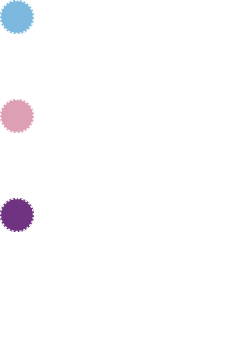
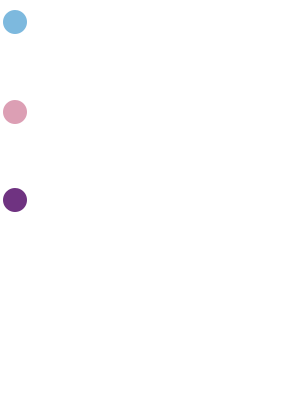
6.3

Changed region(s): [[0.0, 0.4598, 0.1429, 0.6897], [0.0, 0.2299, 0.1429, 0.4023], [0.0, 0.0, 0.1429, 0.1149]]

diff --git a/index.html b/index.html
@@ -34,7 +34,8 @@
         <!-- 第二部分 -->
         <!-- 1. 时间趋势 -->
         <div id="trigFirst" class="trigger"></div>
-        <div class="secifInfo fade" id="sinfo1">            
+        <div class="secifInfo fade" id="sinfo1">   
+            <p class="Ttitle"># 腾讯、阿里巴巴历年直接<span class="title">投资与收购案例</span>情况，其中，<span class="ten">蓝色</span>圆点代表腾讯所投资或收购的公司，<span class="ali">红色</span>圆点代表阿里巴巴投资或收购的公司，将鼠标移到圆点上可查看案例具体时间和领域。</p> 
             <p>自2008年起，腾讯与阿里巴巴两大互联网公司迎来首次投资机遇，并在2013年政策红利背景下加快投资和收购进程，于2014年掀起了投资与收购的热潮。</p>
             <p>此后，两家公司不断在各个领域加大投资力度，深入角逐，抢占行业制高点。</p>
             <div class="blank2"></div>
@@ -56,10 +57,7 @@
                 2013年，移动支付崛起，以电子支付为先导，线下商业逻辑开始正式植入互联网，互联网金融登上历史舞台：
             </p>
             <p>
-                2013年，支付宝手机支付超过27.8亿笔、金额超9000亿元，并推出了余额宝业务；
-            </p>
-            <p>
-                2013年，微信支付上线，线上社交工具开始通过移动支付业务联系线下实际生活场景；
+                2013年，支付宝手机支付超过27.8亿笔、金额超9000亿元，并推出了余额宝业务；微信支付上线，线上社交工具开始通过移动支付业务联系线下实际生活场景；
             </p>
             <p>
                 2013年，互联网行业出现并购热潮，腾讯4.48亿美元注资搜狗，阿里巴巴5.86亿美元入股新浪微博。
@@ -83,7 +81,7 @@
                 </p>
             </div></div>
             <div class="twoinfo right"><img src="img/ali.png" alt=""><div class="tinfo"><p class="name right ali">阿里巴巴</p><p class="cinfo right">
-                阿里巴巴的投资爆发点较腾讯略为提前，并在2016年达到一个高潮。其投资并购数增长率均低于腾讯，但阿里2018年前5月较2017年5月的投资增长率则高于腾讯。
+                阿里巴巴的投资爆发点较腾讯略为提前，并在2016年达到一个高潮。但其投资并购数增长率均低于腾讯。
             </p>
             <p class="cinfo right">
                 投资规模方面，阿里更偏向在看中的领域进行系统性投资，其参与的单家公司的投资规模明显较大，过亿交易占全部投资的52%。
@@ -269,6 +267,7 @@
         <!-- 领域图 -->
         <div id="trigThird" class="trigger"></div>
         <div class="secifInfo" id="sinfo2">
+            <p class="Ttitle"># 腾讯、阿里巴巴<span class="title">投资收购领域分布</span>情况，每一种领域的散点数量对应该领域下两家公司近10年来的投资与收购数量。</p>
             <p>
                 几乎在每个领域，腾讯和阿里巴巴的身影都清晰可见。随着其投资并购行为的不断继续，“互联网+”产业生态矩阵也得到进一步完善。
             </p>
@@ -293,6 +292,9 @@
 
         <div id="trigForth" class="trigger"></div>
         <div class="secifInfo">
+            <p class="Ttitle"># 腾讯、阿里巴巴<span class="title">典型领域投资收购时间分布</span>情况，选取三个领域呈现自2010起，2017年止，两家公司在同一领域下不同的投资力度。
+                三个领域分别为<span class="ten">本地生活</span>、<span class="ten">文化娱乐</span>、<span class="ali">电子商务</span>。
+            </p>
             <p>近5年，阿里和腾讯在多个领域有错峰投资的趋势，主要集中在本地生活、文化娱乐、电子商务三个领域。</p>
             <p>腾讯在文化娱乐领域有长期优势，该领域中腾讯的投资总量大，资本更为强势，在投资集中年份阿里处于弱势地位。</p>
             <p>电子商务是阿里一直擅长的领域，在交易平台的构建和维护方面一直处于领先地位。但阿里近年来和京东达成战略合作，并且着手于微店项目的发展和完善，在投资上有追平阿里之势。</p>
@@ -301,9 +303,11 @@
 
         <!-- 关系图 -->
         <div id="trig6" class="trigger"></div>
-        <div class="blank"></div>
+        <div class="blank2"></div>
         <div class="blank2"></div>
         <div class="secifInfo">
+            <p class="Ttitle"># 腾讯、阿里巴巴<span class="title">投资并购关系网</span>，在两家公司直接投资的基础上，追溯其投资联动关系。
+            </p>
             <p>
                  从投资并购关系网来看，腾讯在投资中形成的投资联动关系在总投资数量中所占比例较大。腾讯注重建立投资链，投资链包括两种：一种是表面上只投资了一家公司，但该公司同时管理着多家小公司，从而实现对这些小公司的间接控制；另一种是和多家实力雄厚的公司形成战略合作关系，投资链所在公司能相互弥补不足，互利共赢。
             </p>
@@ -376,9 +380,11 @@
             <p>从互联网发明伊始，到如今各种互联网巨头争霸于互联网江湖，引领者们始终骄傲于互联网自由、平等、共享、去中心化的理念。只是在这样一条看似日新月异的发展道路上，互联网行业似乎一直未能走出传统资本逻辑的控制。一味地去相信一个绝对契合互联网理念的的市场环境意义不大，市场的监管，法律法规的及时更新才是遏制互联网资本集中趋势的直接有效手段。社会至少应该让用户和经营者期待，互联网会有一个更好的未来。
             </p>
         </div>
-        <div class="simtext">
+        <div class="footer">
+            <hr width="400px" height="20px" align="left">
+
            <p>
-                文字记者：于欣宜 | 刘彧彤
+                文字记者：于欣宜 刘彧彤
             </p>
             <p>
                 数据分析：崔雨晴

diff --git a/js/beeswarm3.js b/js/beeswarm3.js
@@ -865,6 +865,7 @@ var tduration = 1000;
 //type position varable
 var liType = [],
     liType2 = [],
+    liType3 = [],
     tnum = 4, //the number of the type shown on one list 
     Ppadding = Twidth / tnum,
     Ppadding2 = svgHeight /tnum,
@@ -894,6 +895,15 @@ const yAxis = g => g
 const xAxis = g => g
     .attr("transform", `translate(${margin2.left + svgWidth / 2},${margin.top})`)
     .call(d3.axisLeft(yScale).tickSizeOuter(0).tickFormat(d3.format("")));
+
+const simcir2 = data.filter(function (d) { return d.year > 2009 && d.year < 2018 });
+var TyScale = d3.scaleLinear()
+    .domain(d3.extent(simcir2, d => d.year))
+    .range([svgWidth - Twidth - margin.left, width - margin.right]);
+
+const tAxis = g => g
+    // .attr("transform", `translate(${margin2.left}, 0)`)
+    .call(d3.axisTop(TyScale).tickSizeOuter(0).tickFormat(d3.format("")).tickValues([2010, 2011, 2012, 2013, 2014, 2015, 2016, 2017]));
 
 function compute(){   
     //一.compute the simple position 
@@ -955,8 +965,8 @@ function compute(){
         //2.compute every data's (x,y) by pack method
         var circles = d3.packSiblings(sdata
             .map(function(d){ return {data: d, index: d.id, r: radius + Tpadding};}));
-        console.log("c:");
-        console.log(circles);
+        // console.log("c:");
+        // console.log(circles);
 
         //3.translate the meta data
         var ncircles = circles.map(d => cpost(d, i));
@@ -1005,21 +1015,18 @@ function compute(){
         };
         
     };
+
     //四.compute type&time position data 
     liType2 = ["文化娱乐", "电子商务", "本地生活"];
 
-    const simcir2 = data.filter(function (d) { return d.year > 2009 && d.year < 2018 });
-    var TyScale = d3.scaleLinear()
-        .domain(d3.extent(simcir2, d => d.year))
-        .range([svgWidth - Twidth - margin.left, width - margin.right]);
     simcir3 = simcir2.map(d => ({ m: TyScale(d.year), data: d, index: d.id })).sort((a, b) => a.index - b.index);
 
     for(l = 0; l < liType2.length; l++){
         sdata = simcir3.filter(function(d){return d.data.type === liType2[l]});
         stendata = sdata.filter(function (d) { return d.data.inname === "腾讯" });
         salidata = sdata.filter(function (d) { return d.data.inname === "阿里" });
-        simpos(stendata, TTheight / 2 - margin3.top);
-        simpos(salidata, TTheight / 2 - margin3.top);
+        simpos(stendata, TTheight / 2 - margin3.top - padding*2);
+        simpos(salidata, TTheight / 2 - margin3.top - padding * 2);
         const li = (TTheight + margin.top) * l;
         for(s = 0; s < stendata.length; s++){
             const x = stendata[s].m;
@@ -1046,7 +1053,23 @@ function compute(){
             }
         };
     };
-
+    
+    liType3 = [{ "text": "文化娱乐", "row": 1, "col": 1 },
+        { "text": "电子商务", "row": 2, "col": 1 },
+        { "text": "企业服务", "row": 3, "col": 1 },
+        { "text": "汽车交通", "row": 4, "col": 1 },
+        { "text": "本地生活", "row": 1, "col": 2 },
+        { "text": "金   融", "row": 2, "col": 2 },
+        { "text": "游   戏", "row": 3, "col": 2 },
+        { "text": "医疗健康", "row": 4, "col": 2 },
+        { "text": "工具软件", "row": 1, "col": 3 },
+        { "text": "教   育", "row": 2, "col": 3 },
+        { "text": "物   流", "row": 3, "col": 3 },
+        { "text": "社交网络", "row": 4, "col": 3 },
+        { "text": "硬   件", "row": 1, "col": 4 },
+        { "text": "旅   游", "row": 2, "col": 4 },
+        { "text": "房产服务", "row": 3, "col": 4 },
+        { "text": "体育运动", "row": 4, "col": 4 }]
  
     //common function
     function simpos(data, edge) {
@@ -1135,6 +1158,8 @@ function initlayout(){
     Ttext2 = Ttext.append("p");
     Ttext3 = Ttext.append("p"); 
     Ttext4 = Ttext.append("p");
+
+    
 
 };
 function preL(){

diff --git a/js/scroll.js b/js/scroll.js
@@ -59,6 +59,7 @@ $(document).ready(function(){
                 .duration(1000)
                 .delay(1000)
                 .call(xAxis);
+            
             d3.selectAll("text").attr("fill", axistext);
             d3.selectAll("circle")
                 .transition()
@@ -97,12 +98,35 @@ $(document).ready(function(){
             d3.selectAll(".axis").transition()
                 .duration(0)
                 .remove();
+            var Taxis = d3.select("#axis-container")
+
+                .append("g")
+                .attr("class", "axis")
+                .attr("id", "taxis")
+                .attr("opscity", 0)
+
+                .selectAll(".tick")
+                .data(liType3)
+                .enter()
+                .append("text")
+                .attr("transform", (d) => {
+                    if (d.col === 2) {
+                        return "translate(" + [margin2.left * 2 + svgWidth - Twidth + (d.row - 1) * Ppadding, margin2.top + margin.top + d.col * Ppadding2] + ")";
+                    }
+                    else { return "translate(" + [margin2.left * 2 + svgWidth - Twidth + (d.row - 1) * Ppadding, margin2.top + margin.top + d.col * Ppadding2 - Math.floor(d.col / 2) * margin2.top] + ")" }
+                })
+                .text((d) => { return d.text });
+            
             d3.selectAll("circle")
                 .transition()
                 .duration(3000)
                 .style("opacity", 1)
                 .attr("cx", d => d.x3 + svgWidth - Twidth + margin2.left + margin.left)
                 .attr("cy", d => d.y3 + margin2.top * 2);
+            Taxis.transition()
+                .delay(2000)
+                .duration(2000)
+                .attr("opacity", 1);
         }).addTo(controller);
 
     var trig4 = new ScrollMagic.Scene({
@@ -112,6 +136,29 @@ $(document).ready(function(){
             d3.selectAll(".axis").transition()
                 .duration(0)
                 .remove();
+            const yAxis1 = svg.append("g")
+                .transition()
+                .delay(1000)
+                .duration(1000)
+                .attr("class", "axis")
+                .call(tAxis)
+                .attr("transform", `translate(${margin2.left}, ${TTheight / 2 + margin2.top + halfSpace2 * 0.75})`);
+            const yAxis2 = svg.append("g")
+                .transition()
+                .delay(1000)
+                .duration(1000)
+                .attr("class", "axis")
+                .attr("transform", `translate(${margin2.left}, ${TTheight * 1.5 + margin2.top + halfSpace2 * 2})`)
+                .call(tAxis);
+            const yAxis3 = svg.append("g")
+                .transition()
+                .delay(1000)
+                .duration(1000)
+                .attr("class", "axis")
+                .attr("transform", `translate(${margin2.left}, ${TTheight * 2.5 + margin2.top + halfSpace2 * 3.75})`)
+                .call(tAxis);
+            
+
             d3.selectAll("circle")
                 .transition()
                 .duration(3000)
@@ -132,7 +179,7 @@ $(document).ready(function(){
     // var trigRp = new ScrollMagic.Scene({triggerElement:"#trig6", duration:"200%", triggerHook:0.8 })
     //     .setClassToggle("#relate", "show").addIndicators({name: "Rpre"}).addTo(controller);
     var trigR = new ScrollMagic.Scene({
-        triggerElement: "#Rchart", duration: "150%", triggerHook: 0 })    
+        triggerElement: "#Rchart", duration: "200%", triggerHook: 0 })    
         .setPin("#chart #Rchart", { pushFollowers: false })
         .addTo(controller);
     

diff --git a/css/main.css b/css/main.css
@@ -3,17 +3,17 @@ footer, article, #chart{position: absolute; left:0; right:0;}
 /* header, */
 
 #container{
-    background: -webkit-linear-gradient(top,#2293bf 0%,#2293bf 2%,#0a5585 10%,#0f2644 50%,#061836 100%); /* Safari 5.1 to 6.0 */
-    background: -o-linear-gradient(top, #2293bf 0%,#2293bf 2%,#0a5585 10%,#0f2644 50%,#061836 100%); /* Opera 11.1 to 12.0 */
-    background: -moz-linear-gradient(top, #2293bf 0%,#2293bf 2%,#0a5585 10%,#0f2644 50%,#061836 100%); /* Firefox 3.6 to 15 */
-    background: linear-gradient(top,#2293bf 0%,#2293bf 2%,#0a5585 10%,#0f2644 50%,#061836 100%); /* 标准语法 */
+    background: -webkit-linear-gradient(top,#0490d2 0%,#0490d2 2%,#0a5585 10%,#0f2644 50%,#061836 100%); /* Safari 5.1 to 6.0 */
+    background: -o-linear-gradient(top, #0490d2 0%,#0490d2 2%,#0a5585 10%,#0f2644 50%,#061836 100%); /* Opera 11.1 to 12.0 */
+    background: -moz-linear-gradient(top, #0490d2 0%,#0490d2 2%,#0a5585 10%,#0f2644 50%,#061836 100%); /* Firefox 3.6 to 15 */
+    background: linear-gradient(top,#0490d2 0%,#0490d2 2%,#0a5585 10%,#0f2644 50%,#061836 100%); /* 标准语法 */
 }
 /* header{z-index: 20;} */
 #chart{z-index:10;}
 article{z-index:1;}
 
 /* test */
-header{background-image:url(http://7xq8z6.com1.z0.glb.clouddn.com/header.jpg); background-size: cover; background-position: center;}
+header{background-image:url(../img/header2.jpg); background-size: cover; background-position: center;}
 #container{height: 14000px;}
 
 #relate{
@@ -34,8 +34,8 @@ header{background-image:url(http://7xq8z6.com1.z0.glb.clouddn.com/header.jpg); b
 #speCom .speCom .ctext .ctime{font-style: italic; font-size:12px;}
 #speCom .speCom .ctext .cinfo{text-indent: 2em; text-align: justify; line-height: 1.5; font-size: 12px; margin-top: 10px;}
 
-#speCom .ten{background-color: #3391CB;}
-#speCom .ali{background-color: #DC9FB4;}
+#speCom .ten, .Ttitle .ten{background-color: #3391CB;}
+#speCom .ali, .Ttitle .ali{background-color: #DC9FB4;}
 
 #round img{width: 80%; position: relative; left: 10%;}
 
@@ -53,3 +53,5 @@ header{background-image:url(http://7xq8z6.com1.z0.glb.clouddn.com/header.jpg); b
 #speCom .speCom .logo .a06{background-image: url(../img/a06.png)}
 
 #Rchart img{position: absolute; right:3%; z-index:5; top:40%}
+
+#pin video{z-index: 30;}

diff --git a/css/text.css b/css/text.css
@@ -17,14 +17,14 @@ body{font-size:16px; color: #ececec; line-height: 1em; letter-spacing: 2px; text
 .textTrans span{color: #ff5858;}
 
 .secifInfo{width: 35%; margin-left:3%; padding-top: 15%;}
-.secifInfo p{font-size: 13px; }
+.secifInfo p{font-size: 13px; padding-right: 6px;}
 .secifInfo p span{font-weight: 700; letter-spacing: 1px; font-size:14px;}
 
 #round .seciInfo{float: left;}
 #round .img{float: right; width:30%; right: 10%; position: relative;}
 #round .img img{width: 80%; margin-top: 20%;}
 
-#pin{width: 60%; left: 20%; position: relative; padding: 0px 20px; margin-bottom: 10%;}
+#pin{width: 60%; left: 20%; position: relative; padding: 0px 20px; margin-bottom: 5%;}
 #pin h3{text-align: center; letter-spacing: 0.3em; margin-top:5%; font-size: 26px;}
 #pin video{width:100%; position: relative; margin-top:2%; }
 
@@ -32,7 +32,7 @@ body{font-size:16px; color: #ececec; line-height: 1em; letter-spacing: 2px; text
 .simtext{width: 60%;left: 20%;position: relative;margin: 3% 0px; padding: 0px 20px;}
 .simtext p{ margin-top: 20px; text-indent: 2em;}
 
-#twoC{width: 95%; left:2.5%; position: relative; height: 1000px;}
+#twoC{width: 95%; left:2.5%; position: relative; height: 800px; margin-top:200px}
 #twoC .twoinfo{width:35%;}
 #twoC .twoinfo img{width: 40%;}
 #twoC .tinfo{margin:0 5%; width: 45%;}
@@ -46,15 +46,17 @@ body{font-size:16px; color: #ececec; line-height: 1em; letter-spacing: 2px; text
 #twoC .ten{color: #7DB9DE;}
 #twoC .ali{color: #DC9FB4;}
 
-.Stitle{
-    /* color: #a7a5a6; */
+#sinfo1 .ten, #sinfo1 .ali, .Ttitle .ten, .Ttitle .ali{padding: 3px; font-weight: 600}
+
+a{color: #ffa117; text-decoration: none; font-weight: 700; cursor: pointer;}
+
+.secifInfo .Ttitle{margin-bottom: 15%; font-size: 15px;}
+.secifInfo .Ttitle span.title{font-weight: bold; font-size:15px; color: white;}
+
+.footer{
+    width: 90%;
+    left: 10%;
+    position: relative;
+    margin-top: 20%;
     font-size: 14px;
-    line-height: 24px;
-    letter-spacing: 2px;
-    padding: 5px 5px 0px 0px;
-}
-.Smtitle{
-    font-size: 14px;
-    letter-spacing: 2px;
-    line-height: 26px;
-}
+    color: #cecece;}

diff --git a/css/beeswarm.css b/css/beeswarm.css
@@ -53,4 +53,4 @@ div.tooltip {
 
 
 svg g path, svg g.tick line{opacity: 0;}
-.axis text{color: #fff;letter-spacing: 0px;}
+.axis text{fill: #fff;letter-spacing: 0px;}
